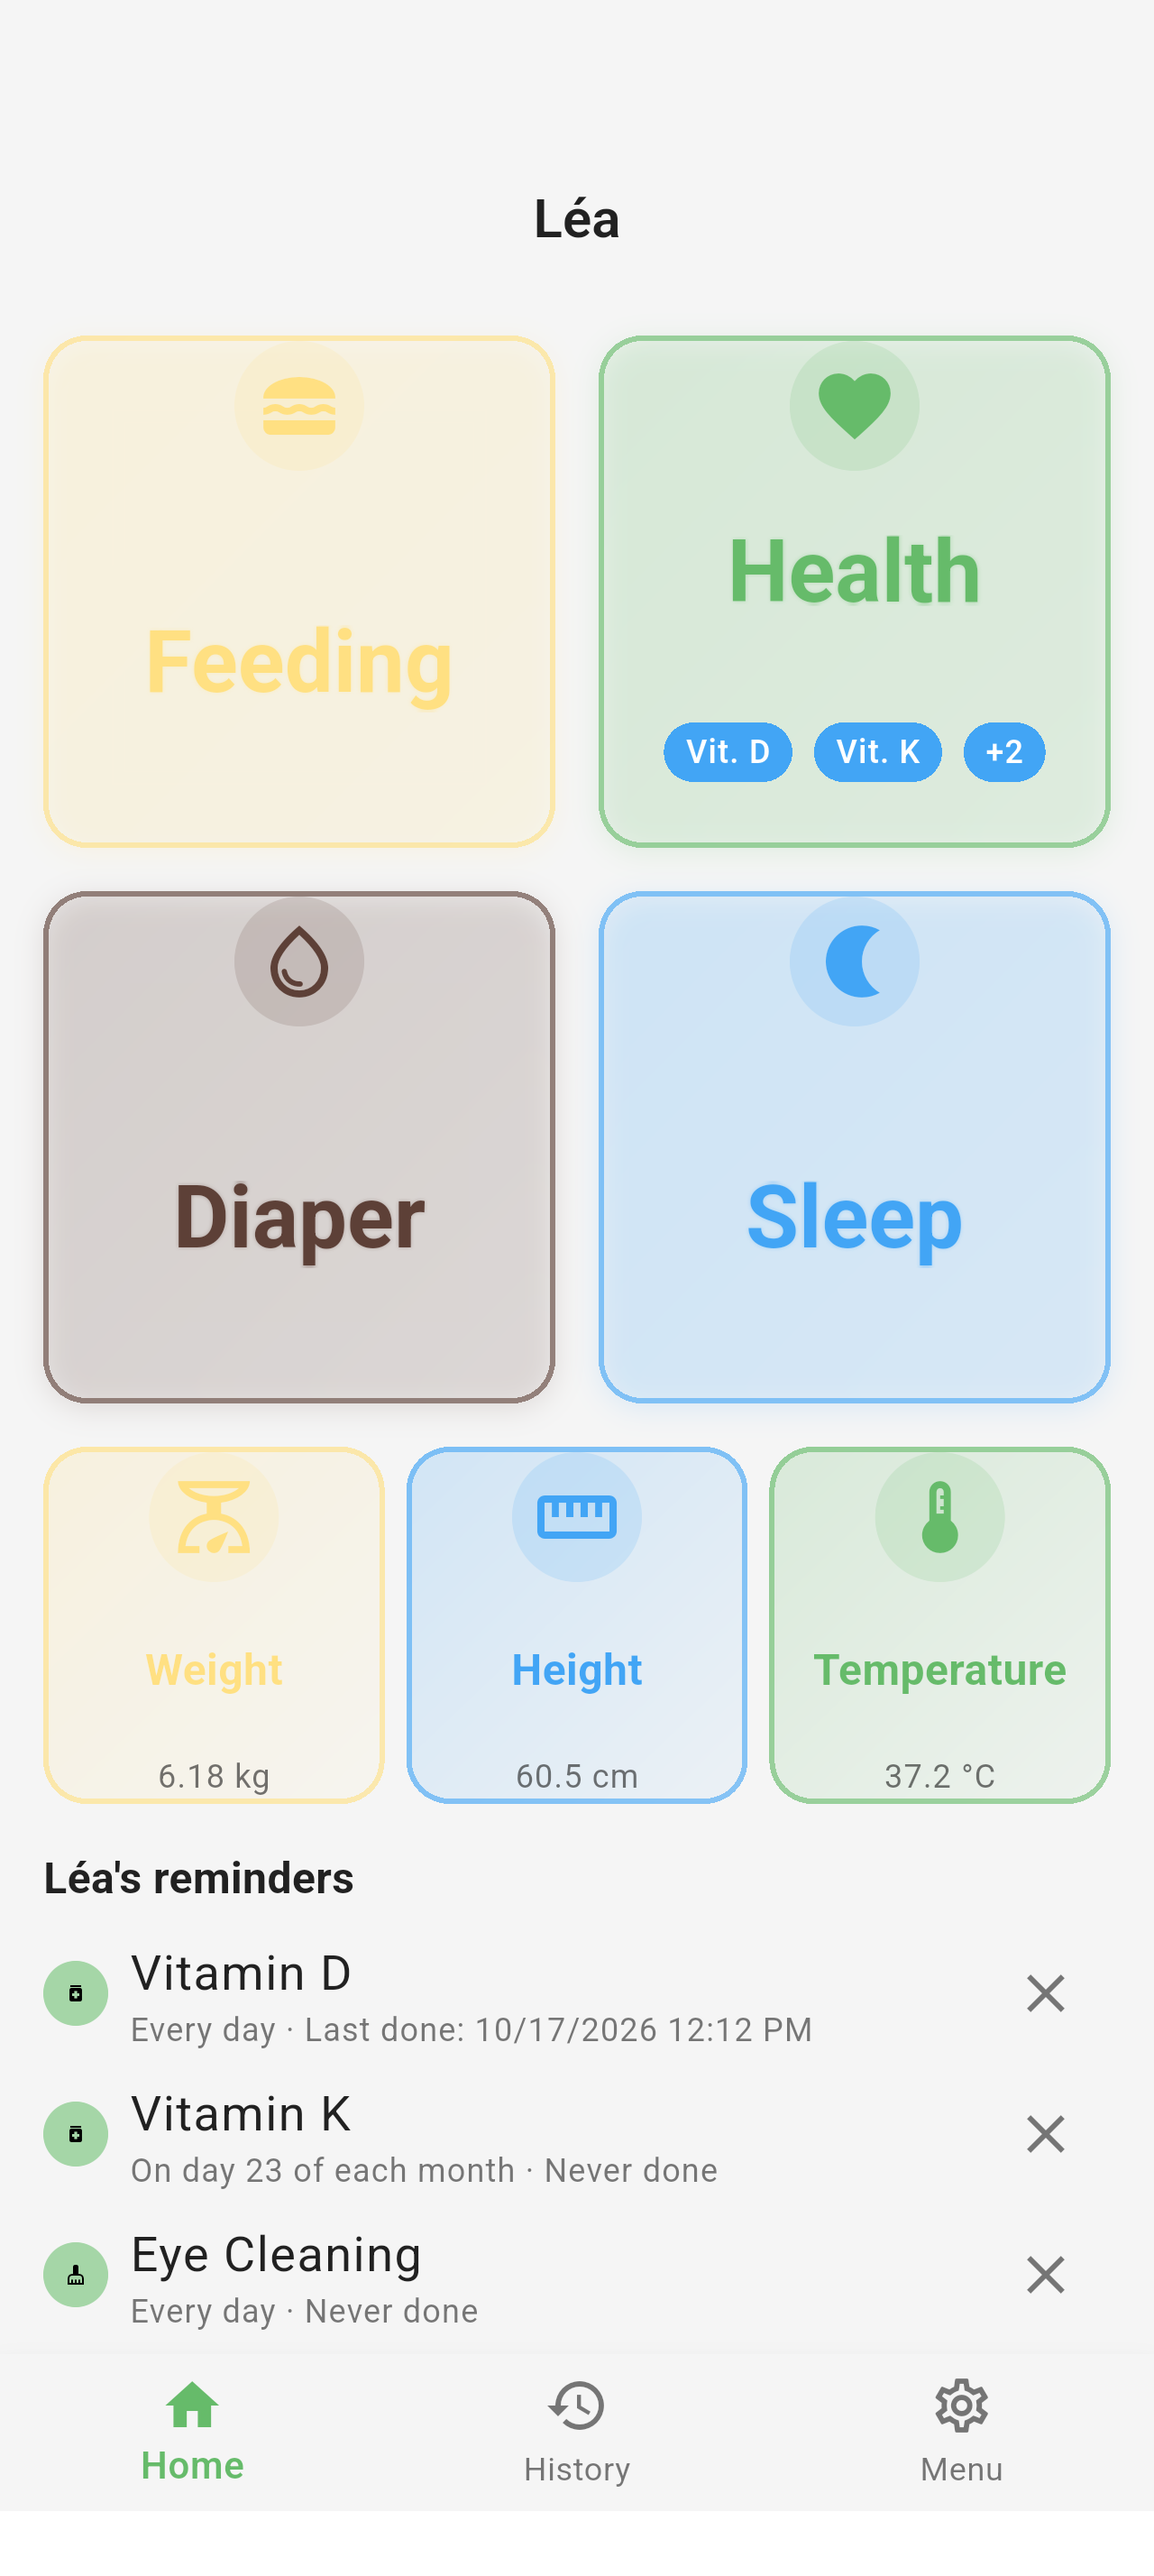
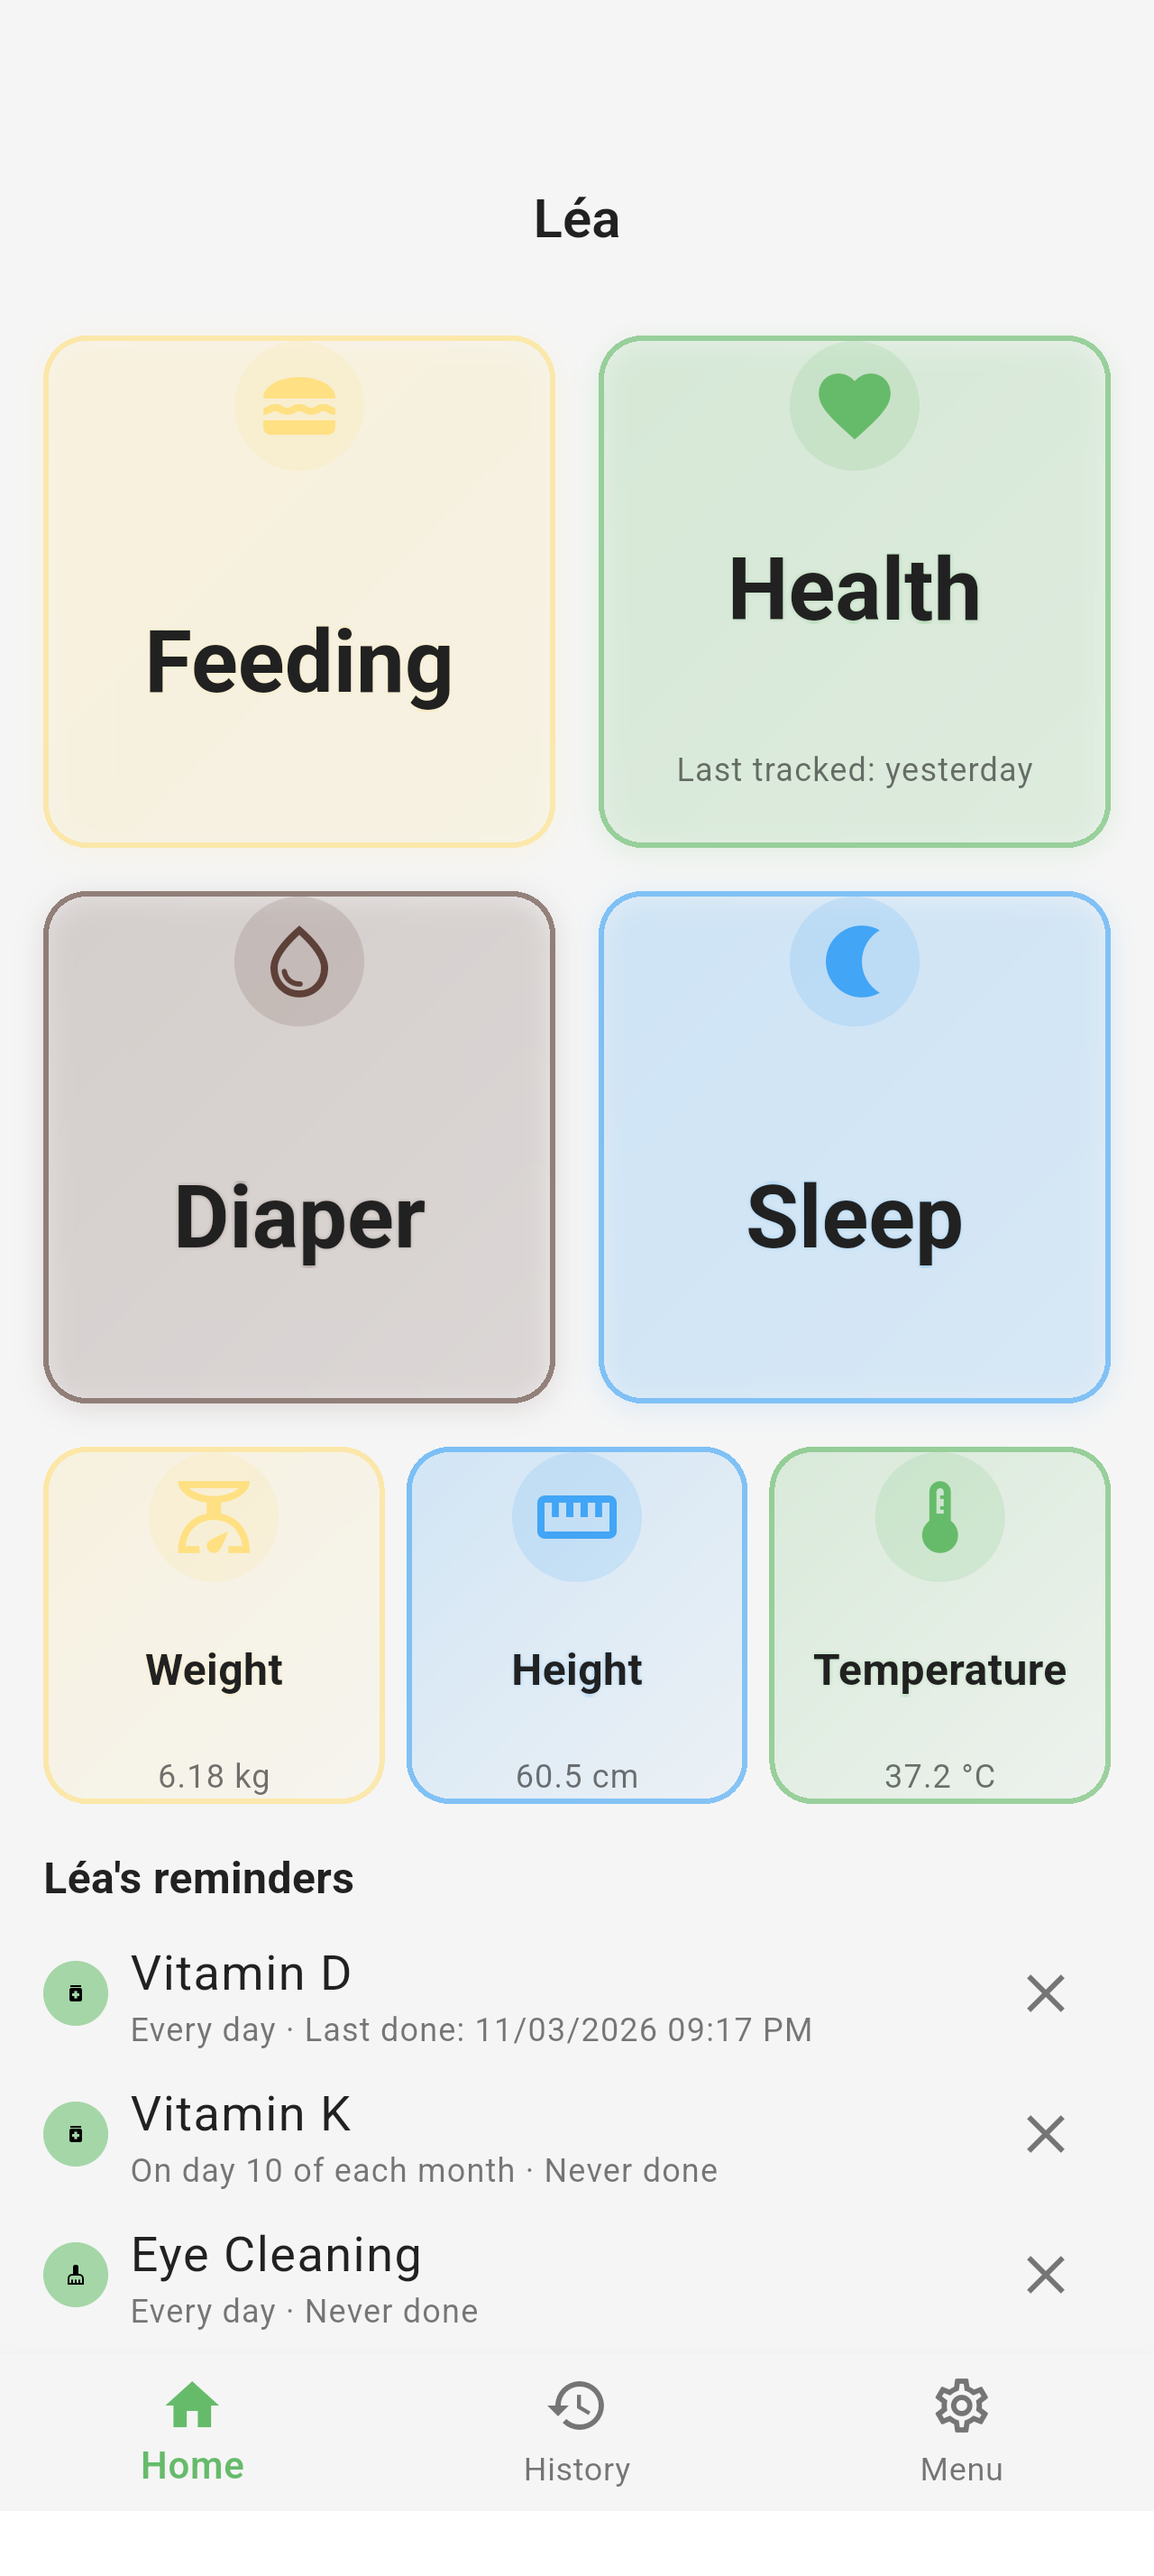
feat(fdroid): v1.3.1 Builds entry (14, commit: v1.3.1) + refreshed phoneScreenshots
Builds entry per the per-release upkeep in docs/fdroiddata/README.md:
- replace the 1.3.0 entry (one entry only, pre-merge rule), commit pinned
  to the tag (the only form writable inside the tagged tree)
- rm: [ios] re-derived from the 460c576 tree, not copied forward
- CurrentVersion 1.3.1 / CurrentVersionCode 14
- phoneScreenshots 1/2/3 refreshed from the verified en set
  (screenshots/android/, recaptured 83ebc4f): the old images predate the
  v1.3.1 fixes and show the low-contrast labels, the removed reminder
  pill and the old history discs

Verified with fdroidserver master cdfdce8 + ruamel.yaml 0.18.10
(Debian trixie writer): fdroid lint clean, rewritemeta fixed point,
byte-identical to the fork file (~/fdroiddata, commit held unpushed on
mamadera-new-app until the v1.3.1 tag exists).

diff --git a/docs/fdroiddata/README.md b/docs/fdroiddata/README.md
@@ -8,14 +8,21 @@ holds two kinds of files that live in *different* repositories:
 | `com.pvjio.mamadera.yml` | fork of https://gitlab.com/fdroid/fdroiddata → `metadata/` |
 | (the `fastlane/metadata/android/` tree at the repo root) | **this repo** — F-Droid 2.0 fetches localized descriptions, changelogs and screenshots from the app's own source, in **fastlane layout** (required by the New App checklist — a plain `metadata/` dir happens to be read too, but it is not accepted for inclusion) |
 
-## Current status (2026-11-01 — the recipe pins `v1.3.0`)
+## Current status (2026-11-04 — the recipe pins `v1.3.1`)
 
 `com.pvjio.mamadera.yml` in this directory is **byte-identical** to
 `metadata/com.pvjio.mamadera.yml` on the MR branch (`mamadera-new-app` of
 `~/fdroiddata`, fork `pvjacquier/fdroiddata`). Keep them identical — `cmp` the
 two after every bump; a comment or a wrap added on one side only breaks the
-other's pipeline job. Current content: one `Builds` entry (1.3.0 / 12, `commit:
-v1.3.0`), `rm: [ios]`, `CurrentVersion: 1.3.0` / `CurrentVersionCode: 12`.
+other's pipeline job. Current content: one `Builds` entry (1.3.1 / 14, `commit:
+v1.3.1`), `rm: [ios]` (re-derived from the tag tree, which still has only
+`ios`), `CurrentVersion: 1.3.1` / `CurrentVersionCode: 14`.
+The fork commit for that entry is **held unpushed** on `mamadera-new-app`
+until the `v1.3.1` tag exists and is pushed: pushing the branch updates MR
+!53740, whose pipeline immediately builds the entry against `commit: v1.3.1`
+and fails on a ref that does not exist yet. At push time the MR abstract's
+screenshot URLs move from `…/v1.3.0/fastlane/…` to `…/v1.3.1/fastlane/…`
+(same files, now refreshed with the 1.3.1 UI).
 
 Checked on 2026-11-01 with fdroidserver master (`cdfdce8`) and Debian trixie's
 `ruamel.yaml 0.18.10`: `fdroid lint` clean, and `fdroid rewritemeta` is a fixed
